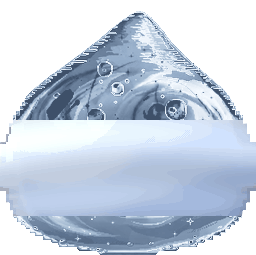
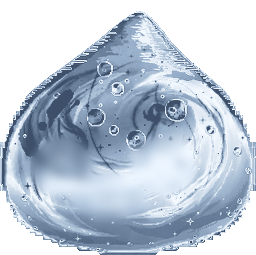
Slime face-zone blend fix
Replace the byte-for-byte face-band restore (rows 120-215 of old flat art,
which read as a pale slab with hard seams against the new detailed art)
with blended clean-face zones: small ellipses around the runtime face
anchors (eyes (62,166)/(162,166), mouth (109,196)) where the new art is
locally smoothed (alpha-weighted average), luminance-matched to the old
face area, and feathered ~12px so no boundary exists. Everything outside
the feathered zones is byte-identical to the untreated conformed art;
canvas size and alpha unchanged; slime-king.png untouched.

Changed region(s): [[0.0, 0.4667, 1.0, 0.851], [0.4688, 0.8235, 0.5, 0.851]]

diff --git a/tools/hd2d/face_zone_fix.py b/tools/hd2d/face_zone_fix.py
@@ -1,0 +1,206 @@
+#!/usr/bin/env python3
+"""Fix pass: replace the slime face-band slab with blended clean-face zones.
+
+Commit ac487e3 restored face-band rows 120-215 byte-for-byte from the old
+flat art; against the new detailed art that band reads as a pale horizontal
+slab with hard seams at both edges.  This pass regenerates the exact same
+conformed new art as ``deep_conform.py`` (asserted byte-identical to the
+shipped sprites everywhere outside the old band), then finishes each slime
+with ``deep_conform.finish_slime`` — whose face treatment is now small
+feathered elliptical clean zones around the runtime face anchors,
+locally smoothed and luminance-matched to the old face area.  Nothing
+outside the feathered zones changes by a single byte.
+
+Proof sheets (default /tmp/hd2d2-sheets):
+* ``slimes-fixed.png`` — all 9 slimes at 2x;
+* ``face-zoom.png`` — 3x crop of the pink face area, before/after, with a
+  sample runtime face (droopy eyes + smile, style 0) drawn at the anchors.
+
+``slime-king.png`` is never opened for writing; its md5 is guarded.
+"""
+
+from __future__ import annotations
+
+import argparse
+import json
+import sys
+from pathlib import Path
+
+import numpy as np
+from PIL import Image, ImageDraw
+
+sys.path.insert(0, str(Path(__file__).resolve().parent))
+import deep_conform as dc  # noqa: E402
+
+IMG_DIR = dc.IMG_DIR
+SLIMES = ["pink", *dc.SLIME_TARGETS.keys(), "metal"]
+FACE_COL = (51, 38, 46)  # #33262e, the runtime FACE_COL
+
+
+def finish_untreated(rgba: np.ndarray, current: Image.Image) -> np.ndarray:
+    """deep_conform's old finish minus any face treatment (quantise only)."""
+    alpha = np.asarray(current.convert("RGBA"))[:, :, 3]
+    output = np.asarray(dc.quantise(rgba, alpha)).copy()
+    output[:, :, 3] = alpha
+    output[alpha == 0] = (0, 0, 0, 0)
+    return output
+
+
+def draw_sample_face(img: Image.Image) -> Image.Image:
+    """Replicate drawSlimeFace style 0 (droopy eyes) + style 0 (smile) at
+    master scale: eye oval 15x21 at (62,166)/(162,166) with slanted lid
+    chord and highlight; smile arc width 37 centred (109,196)."""
+    out = img.convert("RGBA").copy()
+    d = ImageDraw.Draw(out)
+    lw = max(2, round(256 * 0.013))  # runtime line width at master scale
+    for cx, left in ((62, True), (162, False)):
+        cy, ew, eh = 166, 15, 21
+        d.ellipse((cx - ew / 2, cy - eh / 2, cx + ew / 2, cy + eh / 2), fill=FACE_COL + (255,))
+        if left:
+            chord = (cx + ew * .55, cy - eh * .30, cx - ew * .55, cy - eh * .02)
+        else:
+            chord = (cx - ew * .55, cy - eh * .30, cx + ew * .55, cy - eh * .02)
+        d.line(chord, fill=FACE_COL + (255,), width=round(lw * 1.5))
+        hx, hy, hr = cx - ew * .14, cy - eh * .14, ew * .15
+        d.ellipse((hx - hr, hy - hr, hx + hr, hy + hr), fill=(255, 255, 255, 255))
+    mx, my, mw = 109, 196, 37
+    r = mw * .5
+    cy = my - mw * .16
+    # Runtime: ctx.arc(mx, my - mw*.16, mw*.5, PI*.18, PI*.82) -> 32.4..147.6 deg
+    d.arc((mx - r, cy - r, mx + r, cy + r), start=32.4, end=147.6,
+          fill=FACE_COL + (255,), width=lw)
+    return out
+
+
+def checkerboard(size: tuple[int, int], cell: int = 16) -> Image.Image:
+    width, height = size
+    board = Image.new("RGBA", size, (54, 57, 66, 255))
+    draw = ImageDraw.Draw(board)
+    for y in range(0, height, cell):
+        for x in range(0, width, cell):
+            if (x // cell + y // cell) % 2:
+                draw.rectangle((x, y, x + cell - 1, y + cell - 1), fill=(72, 75, 84, 255))
+    return board
+
+
+def fixed_sheet(fixed: dict[str, Image.Image], path: Path) -> None:
+    names = [n for n in [*SLIMES, "king"] if n in fixed]
+    scale = 2
+    cols, label_h = 3, 26
+    tw = 256 * scale
+    th = 255 * scale
+    rows = (len(names) + cols - 1) // cols
+    sheet = Image.new("RGBA", (cols * tw, rows * (th + label_h)), (35, 37, 43, 255))
+    draw = ImageDraw.Draw(sheet)
+    for i, name in enumerate(names):
+        x = (i % cols) * tw
+        y = (i // cols) * (th + label_h)
+        note = "untouched" if name == "king" else "face-zone blend fix"
+        draw.text((x + 8, y + 7), f"slime-{name}.png  ({note})", fill=(255, 225, 130, 255))
+        tile = checkerboard((tw, th), cell=32)
+        big = fixed[name].resize((tw, th), Image.Resampling.NEAREST)
+        tile.alpha_composite(big)
+        sheet.alpha_composite(tile, (x, y + label_h))
+    path.parent.mkdir(parents=True, exist_ok=True)
+    sheet.convert("RGB").save(path)
+
+
+def face_zoom_sheet(before: Image.Image, after: Image.Image, path: Path) -> None:
+    crop = (20, 128, 200, 232)  # face area: eyes, mouth, and art around them
+    scale = 3
+    label_h = 26
+    panels = []
+    for label, img in (("BEFORE (band slab)", before), ("AFTER (blended zones)", after)):
+        faced = draw_sample_face(img).crop(crop)
+        faced = faced.resize((faced.width * scale, faced.height * scale), Image.Resampling.NEAREST)
+        panels.append((label, faced))
+    width = sum(p.width for _, p in panels)
+    height = max(p.height for _, p in panels) + label_h
+    sheet = Image.new("RGBA", (width, height), (35, 37, 43, 255))
+    draw = ImageDraw.Draw(sheet)
+    x = 0
+    for label, panel in panels:
+        draw.text((x + 8, 7), label, fill=(255, 225, 130, 255))
+        tile = checkerboard(panel.size, cell=24)
+        tile.alpha_composite(panel)
+        sheet.alpha_composite(tile, (x, label_h))
+        x += panel.width
+    path.parent.mkdir(parents=True, exist_ok=True)
+    sheet.convert("RGB").save(path)
+
+
+def main() -> None:
+    parser = argparse.ArgumentParser()
+    parser.add_argument("--contact-dir", type=Path, default=Path("/tmp/hd2d2-sheets"))
+    args = parser.parse_args()
+
+    king_before = dc.md5(dc.KING)
+    hero_master = dc.single_subject(dc.latest("media-generation-hero-slime-pink-*.png"))
+
+    currents = {n: Image.open(IMG_DIR / f"slime-{n}.png").convert("RGBA") for n in SLIMES}
+    hero_rgba = dc.conform_rgb(currents["pink"], hero_master)
+
+    def variant_for(name: str) -> np.ndarray:
+        v = hero_rgba.copy()
+        v[:, :, 3] = np.asarray(currents[name])[:, :, 3]
+        return v
+
+    bases = {"pink": hero_rgba}
+    for colour, hue in dc.SLIME_TARGETS.items():
+        bases[colour] = dc.palette_remap(variant_for(colour), hue)
+    bases["metal"] = dc.chrome_derivative(variant_for("metal"))
+
+    weights = dc.face_zone_weights((255, 256))
+    zone_area = weights > 0
+    report: dict[str, dict] = {}
+    fixed: dict[str, Image.Image] = {}
+
+    for name in SLIMES:
+        current = currents[name]
+        cur = np.asarray(current)
+        untreated = finish_untreated(bases[name], current)
+
+        # Determinism proof: the regenerated pipeline must reproduce the
+        # shipped sprite byte-for-byte everywhere outside the old band.
+        outside = np.ones(cur.shape[:2], dtype=bool)
+        outside[dc.FACE_BAND, :] = False
+        assert np.array_equal(untreated[outside], cur[outside]), \
+            f"{name}: regenerated art differs from shipped art outside the old band"
+
+        out_img = dc.finish_slime(bases[name], current)
+        out = np.asarray(out_img)
+
+        # Geometry proof: size + alpha identical to the pre-fix sprite.
+        assert out_img.size == current.size, f"{name}: canvas changed"
+        assert np.array_equal(out[:, :, 3], cur[:, :, 3]), f"{name}: alpha changed"
+
+        # Locality proof: not one byte changes outside the feathered zones.
+        assert np.array_equal(out[~zone_area], untreated[~zone_area]), \
+            f"{name}: pixels changed outside the face zones"
+
+        fixed[name] = out_img
+        core = (weights >= 0.999) & (cur[:, :, 3] > 0)
+        lum = np.array([0.2126, 0.7152, 0.0722])
+        report[name] = {
+            "size": list(out_img.size),
+            "alpha_identical": True,
+            "zone_core_old_lum": round(float((cur[:, :, :3].astype(float) @ lum)[core].mean()), 2),
+            "zone_core_new_lum": round(float((out[:, :, :3].astype(float) @ lum)[core].mean()), 2),
+            "changed_px": int(np.count_nonzero(np.any(out != cur, axis=2))),
+        }
+
+    sheet_set = dict(fixed)
+    sheet_set["king"] = Image.open(dc.KING).convert("RGBA")  # display only, never written
+    fixed_sheet(sheet_set, args.contact_dir / "slimes-fixed.png")
+    face_zoom_sheet(currents["pink"], fixed["pink"], args.contact_dir / "face-zoom.png")
+
+    for name, img in fixed.items():
+        img.save(IMG_DIR / f"slime-{name}.png")
+
+    king_after = dc.md5(dc.KING)
+    assert king_before == king_after == "cb91b0e33d2ecee4c4b34cae0dc13ccc", "king md5 guard failed"
+    print(json.dumps({"king_md5": king_after, "slimes": report}, indent=2))
+
+
+if __name__ == "__main__":
+    main()

diff --git a/tools/hd2d/deep_conform.py b/tools/hd2d/deep_conform.py
@@ -9,9 +9,10 @@ and conforms them to the sprites already shipped in ``assets/img``:
 * missing samples are filled from the nearest generated foreground pixel, so
   no white sheet background can bleed into a silhouette;
 * the current sprite's alpha channel and canvas size are copied back exactly;
-* slime face-band rows 120-215 are restored byte-for-byte from each current
-  slime sprite after palette work and quantisation, keeping runtime faces
-  clean;
+* after palette work and quantisation, small elliptical zones around the
+  runtime face anchors are blended to a locally smoothed, luminance-matched
+  version of the new art (see ``face_zone_blend``), so runtime faces sit on
+  clean gel with no seam against the detailed art around them;
 * the coloured slime family is palette-remapped from the conformed pink hero;
 * metal is a cool chrome derivative of the same hero.
 
@@ -261,15 +262,75 @@ def chrome_derivative(hero_rgba: np.ndarray) -> np.ndarray:
     return output
 
 
+# Runtime face anchors on the 256x255 master (see drawSlimeFace in
+# index.html): eye centres (62,166) and (162,166), eye oval ~15x21; mouth
+# centre (109,196), smile width 37. Clean zones are ellipses (cx, cy, rx, ry)
+# around those anchors with margin for the strokes, feathered ~12px.
+FACE_ZONES = ((62, 166, 26, 24), (162, 166, 26, 24), (109, 196, 32, 20))
+FACE_FEATHER_PX = 12.0
+FACE_SMOOTH_SIGMA = 5.5
+
+
+def face_zone_weights(shape: tuple[int, int]) -> np.ndarray:
+    """Feathered 0..1 weight map: 1 inside each face zone, smoothstep to 0
+    across ~FACE_FEATHER_PX outside it, so the blend has no visible edge."""
+    height, width = shape
+    yy, xx = np.mgrid[0:height, 0:width]
+    weight = np.zeros((height, width), dtype=np.float64)
+    for cx, cy, rx, ry in FACE_ZONES:
+        d = np.sqrt(((xx - cx) / rx) ** 2 + ((yy - cy) / ry) ** 2)
+        feather = FACE_FEATHER_PX / ((rx + ry) / 2.0)
+        t = np.clip((1.0 + feather - d) / feather, 0.0, 1.0)
+        weight = np.maximum(weight, t * t * (3.0 - 2.0 * t))
+    return weight
+
+
+def alpha_weighted_smooth(rgb: np.ndarray, alpha: np.ndarray, sigma: float) -> np.ndarray:
+    """Local average of rgb weighted by alpha (transparent pixels contribute
+    nothing), used to calm gel detail under the runtime face."""
+    a = (alpha.astype(np.float64) / 255.0)[..., None]
+    num = ndimage.gaussian_filter(rgb * a, sigma=(sigma, sigma, 0))
+    den = ndimage.gaussian_filter(a, sigma=(sigma, sigma, 0))
+    return np.divide(num, den, out=rgb.copy(), where=den > 1e-4)
+
+
+def face_zone_blend(rgba: np.ndarray, old_rgba: np.ndarray) -> np.ndarray:
+    """Blend the face zones of the new art toward a smoothed version of
+    itself, luminance-matched to the old sprite's face area, feathered so
+    no boundary shows. Everything outside the zones is byte-identical."""
+    alpha = rgba[:, :, 3]
+    weight = face_zone_weights(rgba.shape[:2])
+    rgb = rgba[:, :, :3].astype(np.float64)
+    smooth = alpha_weighted_smooth(rgb, alpha, FACE_SMOOTH_SIGMA)
+
+    core = (weight >= 0.999) & (alpha > 0)
+    gain = 1.0
+    if np.any(core):
+        lum = np.array([0.2126, 0.7152, 0.0722])
+        old_mean = float((old_rgba[:, :, :3].astype(np.float64) @ lum)[core].mean())
+        new_mean = float((smooth @ lum)[core].mean())
+        if new_mean > 1e-6:
+            gain = float(np.clip(old_mean / new_mean, 0.75, 1.35))
+
+    treated = np.clip(smooth * gain, 0.0, 255.0)
+    blended = rgb * (1.0 - weight[..., None]) + treated * weight[..., None]
+    output = rgba.copy()
+    output[:, :, :3] = np.rint(blended).astype(np.uint8)
+    output[:, :, 3] = alpha
+    output[alpha == 0] = (0, 0, 0, 0)
+    return output
+
+
 def finish_slime(rgba: np.ndarray, current: Image.Image) -> Image.Image:
     current_rgba = np.asarray(current.convert("RGBA"))
     alpha = current_rgba[:, :, 3]
     finished = quantise(rgba, alpha)
     output = np.asarray(finished).copy()
-    # Exact restoration, after quantisation, as specified for the face band.
-    output[FACE_BAND, :, :3] = current_rgba[FACE_BAND, :, :3]
     output[:, :, 3] = alpha
     output[alpha == 0] = (0, 0, 0, 0)
+    # Blended clean-face zones (replaces the old byte-for-byte face-band
+    # restore, whose hard seams read as a pale slab across the face).
+    output = face_zone_blend(output, current_rgba)
     return Image.fromarray(output, mode="RGBA")
 
 
